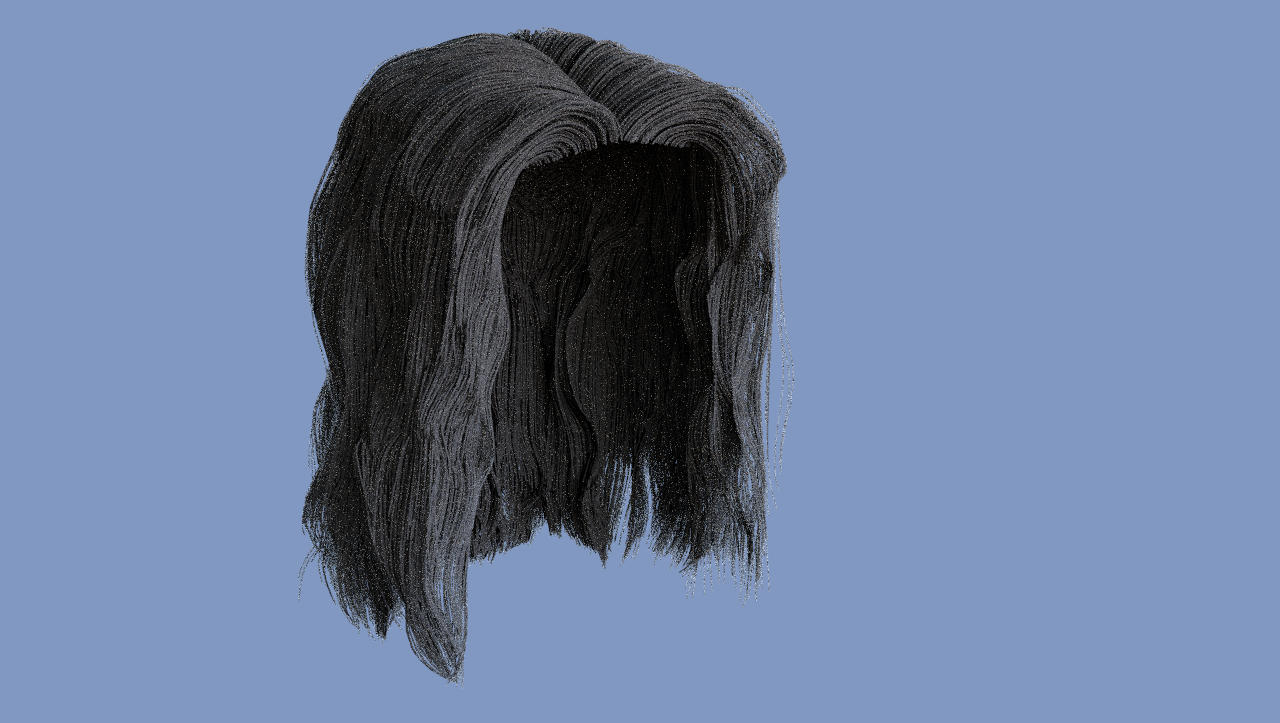
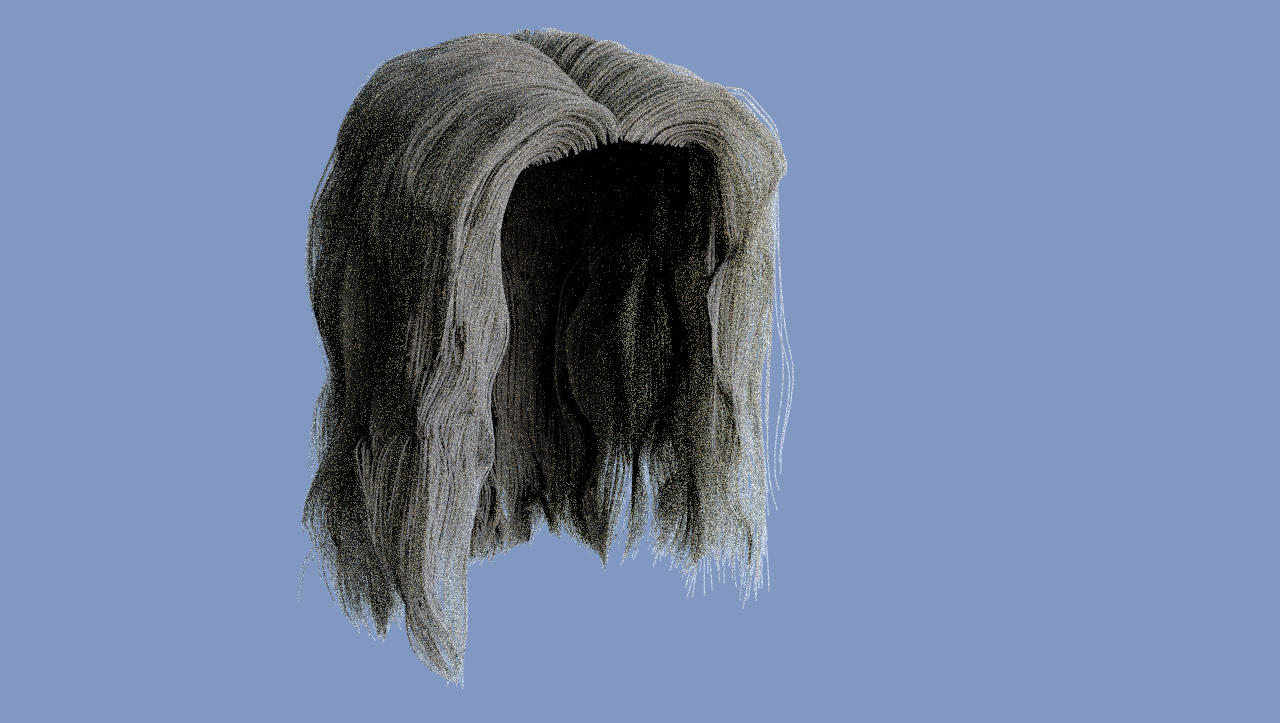
report1.5

Changed region(s): [[0.2188, 0.0304, 0.625, 0.9433]]

diff --git a/libs/yocto_pathtrace/yocto_pathtrace.cpp b/libs/yocto_pathtrace/yocto_pathtrace.cpp
@@ -98,7 +98,7 @@ static const float SqrtPiOver8 = 0.626657069f;
 float gammaO    = asin(h);
   float s         = SqrtPiOver8 * (0.265f * beta_n + 1.194f * beta_n * beta_n +
                               5.372f * math::pow(beta_n,20));
-vec3f sigma = {0.06,0.10,0.20};
+vec3f sigma = {0.84,1.39,2.74};
 // Check texture size
 static vec2i texture_size(const ptr::texture* texture) {
   if (!texture->colorf.empty()) {

diff --git a/report.md b/report.md
@@ -65,16 +65,18 @@ Given the incoming and outcming directions, the angle *φo* in the perpendicular
     float cosThetaO = sqrt(1 - Sqr(sinThetaO));
     float phiO      = std::atan2(wo.z, wo.y);
 
+* Longitudinal Scattering Mp
+
 
 For longitudinal scattering **Mp** the model implemented here was developed by d’Eon et al. (2011). Although it turns out that this model isn't numerically stable for low roughness variance *v*, which is parametric controlled. Then, the *v <= .1* test in the implementation below selects between the two formulations:
 
     static float Mp(float cosThetaI, float cosThetaO, float sinThetaI,
     float sinThetaO, float v) {
-    float a = cosThetaI * cosThetaO / v;
-    float b = sinThetaI * sinThetaO / v;
-    float mp = (v <= .1) //test on roughness value.
-          ? (std::exp(LogI0(a) - b - 1 / v + 0.6931f + std::log(1 / (2 * v))))
-          : (std::exp(-b) * I0(a)) / (std::sinh(1 / v) * 2 * v);
+        float a = cosThetaI * cosThetaO / v;
+        float b = sinThetaI * sinThetaO / v;
+        float mp = (v <= .1) //test on roughness value.
+            ? (std::exp(LogI0(a) - b - 1 / v + 0.6931f + std::log(1 / (2 * v))))
+            : (std::exp(-b) * I0(a)) / (std::sinh(1 / v) * 2 * v);
      return mp;
     }
 
@@ -87,17 +89,41 @@ Different roughness values are used for different values ofp. For p= 1, roughnes
     v[1]    = .25 * v[0];
     v[2]    = 4 * v[0];
 
+
+* Attenation Function 
+
+
 The **Ap** term describes how much of the incident light is affected by each of thescattering modes *p*. This absorption is what gives hair and fur its color. The *Ap* function that the author implement, models all reflection and transmission at the hair boundary as perfectly specular. This simplifies the implementation and give reasonable results. Here we provide the pseudocode as it is meant to be implemented in the code : 
     
     
     〈Hair Local Functions〉 
-     static std::array<Spectrum, pMax + 1> Ap(Float cosThetaO,Float eta,Float h, const Spectrum &T) {std::array<Spectrum, pMax + 1> ap;
+     Ap(Float cosThetaO,Float eta,Float h, const Spectrum &T) {std::array<Spectrum, pMax + 1> ap;
     〈Compute p= 0 attenuation at initial cylinder intersection〉
     〈Compute p= 1 attenuation term〉
     〈Compute attenuation terms up top=pMax〉
     〈Compute attenuation term accounting for remaining orders of scattering〉
     return ap;
     }
+
+
+.... specify the code in the pseudo-code
+
+
+* Azimuthal Scattering Np
+
+This model covers the scattering part that depends on the angle *φ*. First we need to knwo how an incident ray is deflected by specular reflection and trasmission in the normal plane. This is done by the function: 
+
+
+    inline Float Phi(int p, Float gammaO, Float gammaT) 
+        {return 2 * p * gammaT - 2 * gammaO + p * Pi;}     
+
+
+Then a logistic distribution function is used to model the scattering effect of the roughness surface. In particular, the logistic distribution is normalized and defined usually on the interval [−π, π], but for flexibility it takes values over the range [a, b]. It's called *Trimmed Logistic* .
+
+    inline float Np(Float phi, int p, Float s, Float gammaO,Float gammaT) {
+        Float dphi = phi - Phi(p, gammaO, gammaT);
+        〈Remap dphi to[−π, π]〉
+        return TrimmedLogistic(dphi, s, -Pi, Pi);
 
 ## Results
 
